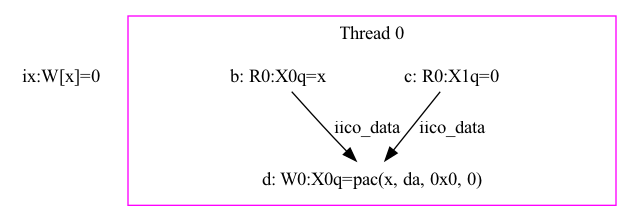
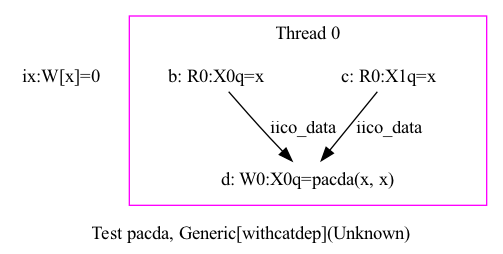
wip updates notes3.md

Changed region(s): [[0.0298, 0.0543, 0.9841, 0.9774], [0.328, 0.2715, 0.8648, 0.6516], [0.4175, 0.6516, 0.8052, 0.7602]]

diff --git a/pac_tests/notes/notes3.md b/pac_tests/notes/notes3.md
@@ -385,6 +385,15 @@ exists ( 1:x2=1 /\ 1:x4=0 /\ Fault(P2) )
  * `P2` if `SCTLR_EL1.EnDA = 0` *)
 ```
 
+Here is the expected graph of the execution of the `autda Xd,Xn` instruction in
+case of a success:
+
+![`autda Xd,Xn` instruction success](pauth1_autda_success.png)
+
+Here is the expected graph of the execution of the `autda Xd,Xn` instruction in
+case of a failure:
+
+![`autda Xd,Xn` instruction success](pauth1_autda_failure.png)
 
 ### `aut*` instruction with `FEAT_PAuth2` but without `FEAT_FPAC`
 
@@ -424,28 +433,26 @@ in `Xd` and the register-write event in `Xd` for the instruction `autda Xd,Xn`
 for all the possible set of feature that change this dependency (note that we
 may replace `FEAT_FPAC` by `FEAT_FPACCOMBINE` in case of a combined instruction):
 
-| `FEAT_PAuth` | `FEAT_PAuth2` | `FEAT_FPAC` | Success         | Fail             |
-|:-------------|:--------------|:------------|:----------------|:-----------------|
-| No           | No            | No          | `basic-dep`[^1] | `N/A`            |
-| Yes          | No            | No          | `basic-dep`[^1] | `basic-dep`[^1]  |
-| Yes          | Yes           | No          | `basic-dep`[^1] | `basic-dep`[^1]  |
-| Yes          | Yes           | Yes         | `basic-dep`[^1] | Fault (no write) |
+| `FEAT_PAuth2` | `FEAT_FPAC` | Success         | Fail             |
+|:--------------|:------------|:----------------|:-----------------|
+| No            | No          | `basic-dep`[^1] | `basic-dep`[^1]  |
+| Yes           | No          | `basic-dep`[^1] | `basic-dep`[^1]  |
+| Yes           | Yes         | `basic-dep`[^1] | Fault (no write) |
 
 Here is a table that show the minimal dependency between the register-read event
 in `Xn` and the register-write event in `Xd` for the instruction `autda Xd,Xn`
 for all the possible set of feature that change this dependency:
 
-| `FEAT_PAuth` | `FEAT_PAuth2` | `FEAT_FPAC` | Success              | Fail                 |
-|:-------------|:--------------|:------------|:---------------------|:---------------------|
-| No           | No            | No          | `N/A`                | `N/A`                |
-| Yes          | No            | No          | `pick-basic-dep`[^1] | `pick-basic-dep`[^1] |
-| Yes          | Yes           | No          | `pick-basic-dep`[^2] | `basic-dep`[^1]      |
-| Yes          | Yes           | Yes         | `pick-basic-dep`[^2] | Fault (no write)     |
+| `FEAT_PAuth2` | `FEAT_FPAC` | Success              | Fail                 |
+|:--------------|:------------|:---------------------|:---------------------|
+| No            | No          | `pick-basic-dep`[^1] | `pick-basic-dep`[^1] |
+| Yes           | No          | `pick-basic-dep`[^2] | `basic-dep`[^1]      |
+| Yes           | Yes         | `pick-basic-dep`[^2] | Fault (no write)     |
 
 [^1]: Memory model from the ASL implementation
 [^2]: Correspond to the possibility of the `aut*` instruction to predict it's
     success, because this was one of the demand of the architects in
-    ![this ticket](https://jira.arm.com/browse/AARCH-21866)
+    [this ticket](https://jira.arm.com/browse/AARCH-21866)
 
 ### `ldr` instruction:
 
